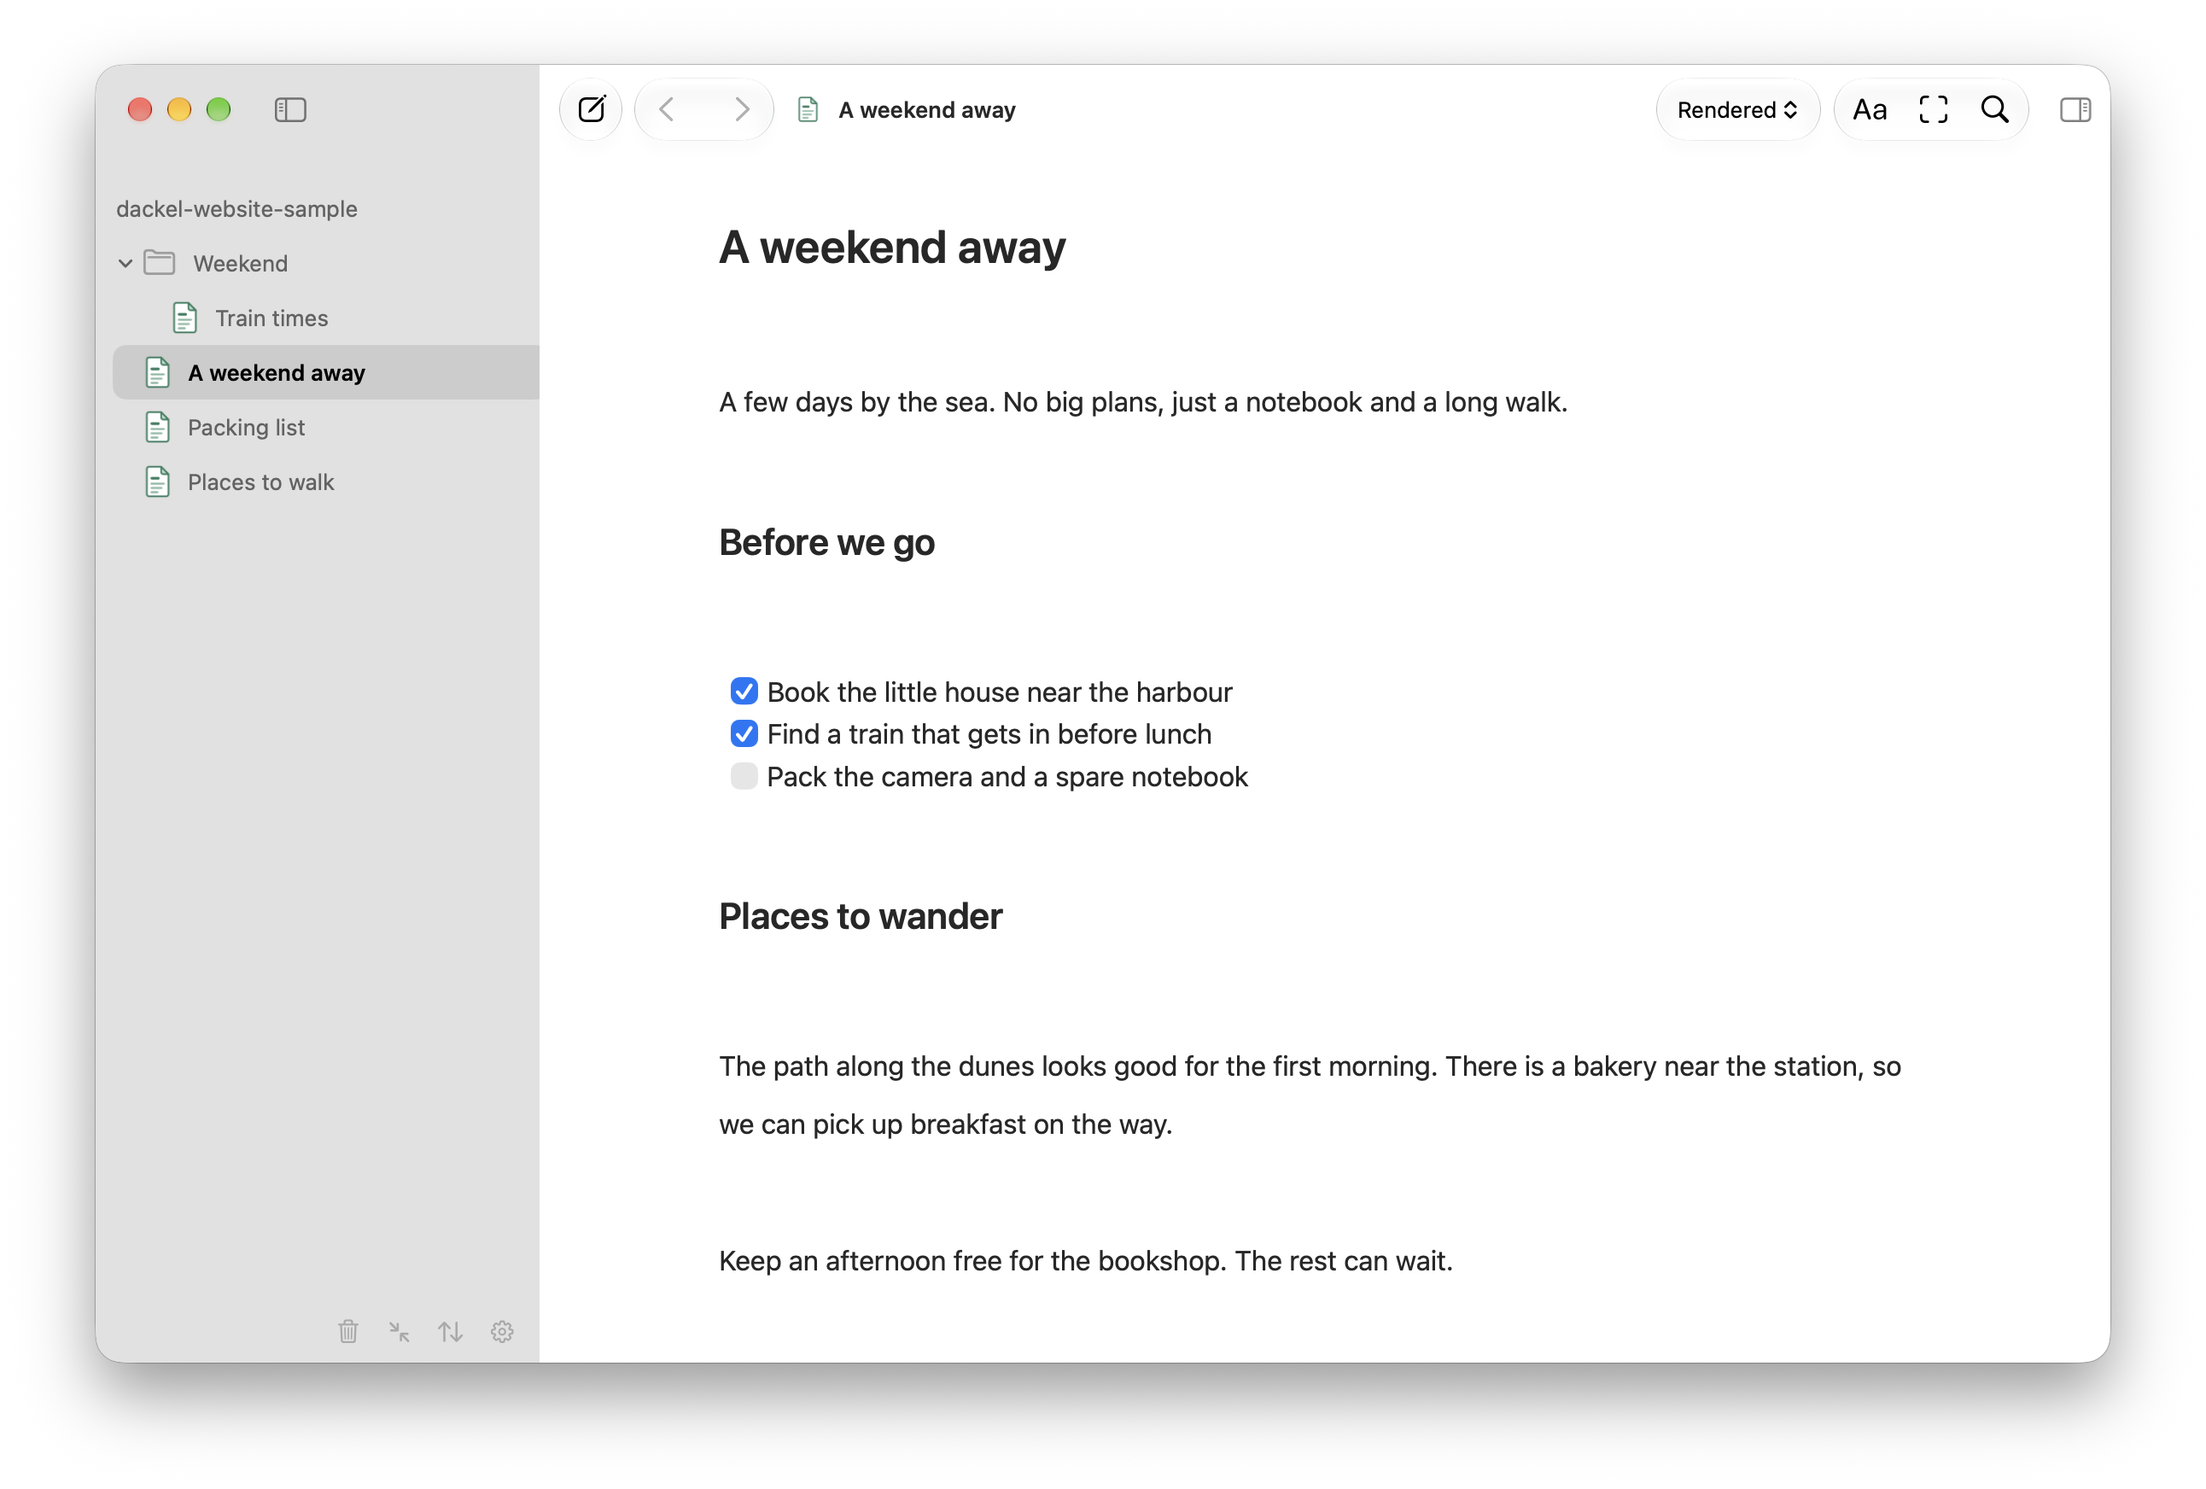
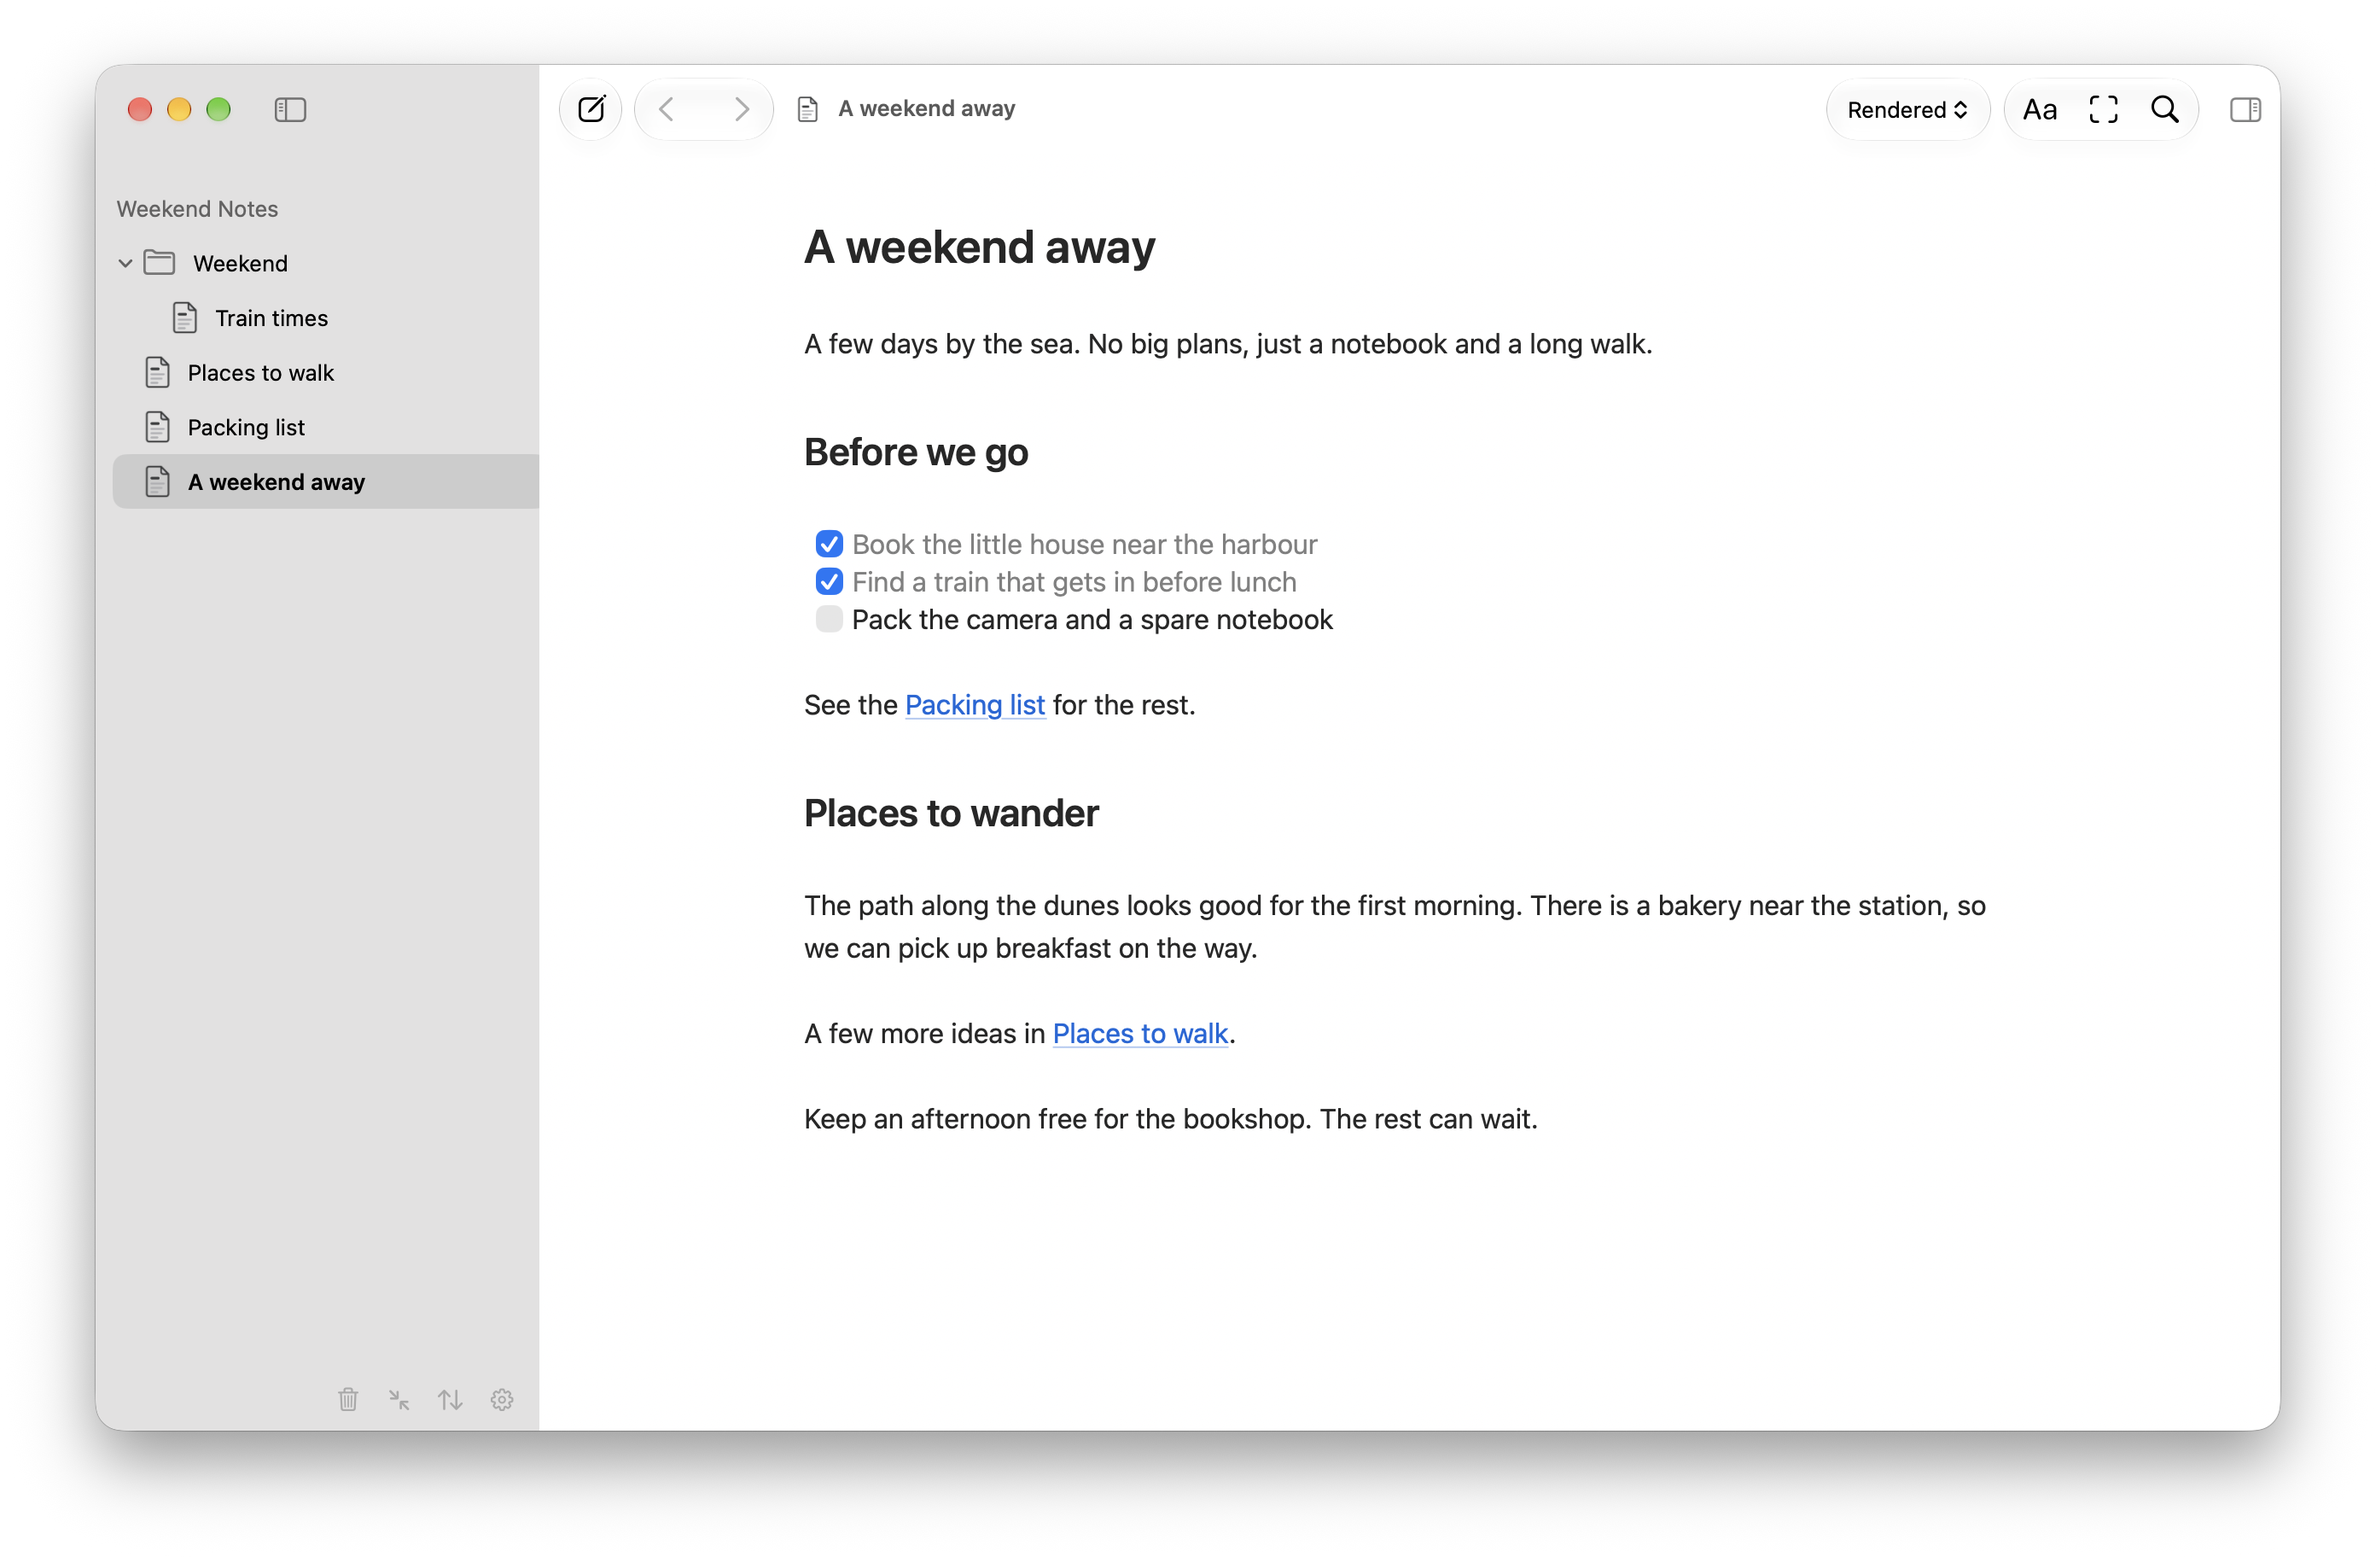
Refresh homepage with app features and updated screenshot

diff --git a/homepage.css b/homepage.css
@@ -1,0 +1,67 @@
+:root {
+  color-scheme: light;
+  font-family: "Avenir Next", Avenir, "Segoe UI", sans-serif;
+  color: #30312c;
+  background: #f8f6ed;
+  -webkit-font-smoothing: antialiased;
+}
+* { box-sizing: border-box; }
+body { margin: 0; }
+a { color: inherit; text-underline-offset: 4px; }
+a:hover { color: #8c4225; }
+a:focus-visible, button:focus-visible { outline: 2px solid #8c4225; outline-offset: 5px; }
+::selection { background: #ecd8a6; }
+.page { width: min(100% - 96px, 1000px); margin: 0 auto; }
+.site-header { display: flex; justify-content: space-between; align-items: center; gap: 24px; padding-top: 38px; }
+.wordmark { font-size: 25px; font-weight: 650; letter-spacing: -1px; text-decoration: none; }
+.release { display: flex; align-items: center; gap: 8px; font-size: 12px; color: #68695e; }
+.release::before { content: ""; width: 6px; height: 6px; flex: none; background: #9c7751; border-radius: 50%; }
+.intro { position: relative; display: flex; align-items: flex-end; justify-content: space-between; gap: 24px; padding-top: 76px; margin-bottom: 37px; }
+h1 { margin: 0; font-size: clamp(44px, 6.3vw, 76px); line-height: 1.06; letter-spacing: -3.9px; font-weight: 600; }
+h1 span { display: block; color: #777969; }
+.intro-caption { max-width: 470px; margin: 25px 0 0; font-size: 18px; line-height: 1.65; color: #5c5e52; }
+.app-screenshot { margin: 0; }
+.app-screenshot img { display: block; width: 100%; height: auto; border-radius: 12px; }
+.details { display: grid; grid-template-columns: repeat(3, 1fr); gap: 40px; padding: 39px 0 43px; border-bottom: 1px solid #deddd2; }
+.details h2 { margin: 0 0 9px; font-size: 15px; line-height: 1.5; font-weight: 600; letter-spacing: -.15px; }
+.details p { margin: 0; font-size: 14px; line-height: 1.8; color: #68695e; }
+.details code { font-size: 12px; }
+.maker { display: flex; justify-content: space-between; align-items: flex-end; gap: 38px; padding: 38px 0 42px; }
+.maker p { max-width: 440px; margin: 0; font-size: 14px; line-height: 1.8; color: #68695e; }
+footer { display: flex; justify-content: space-between; align-items: baseline; gap: 20px; border-top: 1px solid #deddd2; padding: 22px 0 30px; font-size: 11px; color: #77796d; }
+footer p { margin: 0; }
+.origin svg { width: 12px; height: 18px; margin-right: 6px; vertical-align: baseline; }
+footer nav { display: flex; flex-wrap: wrap; gap: 22px; }
+footer a { text-decoration: none; }
+footer a:hover { text-decoration: underline; }
+[hidden] { display: none !important; }
+.mascot-button { position: relative; display: block; flex: none; width: 180px; aspect-ratio: 1499 / 1049; border: 0; padding: 0; margin: 0 8px 4px 0; background: transparent; color: inherit; border-radius: 6px; }
+.mascot-button:enabled { cursor: pointer; }
+.mascot-frame { position: absolute; right: .8%; bottom: 18%; width: 96%; height: auto; overflow: hidden; image-rendering: pixelated; }
+.mascot-bone { position: absolute; top: 7px; right: 7px; line-height: 0; }
+.mascot-walkway { position: absolute; inset: 0; width: 100%; height: 100%; pointer-events: none; image-rendering: pixelated; }
+.sr-only { position: absolute; width: 1px; height: 1px; padding: 0; margin: -1px; overflow: hidden; clip: rect(0, 0, 0, 0); white-space: nowrap; border: 0; }
+@media (max-width: 700px) {
+  .page { width: calc(100% - 40px); }
+  .site-header { padding-top: 26px; }
+  .intro { padding-top: 54px; margin-bottom: 28px; gap: 12px; }
+  h1 { font-size: 48px; letter-spacing: -2.4px; }
+  .intro-caption { font-size: 16px; margin-top: 21px; }
+  .mascot-button { width: 104px; margin-right: 0; }
+  .details { gap: 22px; padding: 29px 0 32px; }
+  .details h2 { font-size: 14px; }
+  .details p { font-size: 13px; }
+  .maker { padding: 29px 0 32px; }
+}
+@media (max-width: 520px) {
+  .intro { display: block; }
+  h1 { font-size: clamp(38px, 10.2vw, 52px); letter-spacing: -2px; }
+  .mascot-button { width: 86px; margin: 12px 0 0 auto; }
+  .app-screenshot img { border-radius: 6px; }
+  .details { grid-template-columns: 1fr; gap: 23px; }
+  .details h2 { margin-bottom: 4px; }
+  .details p { max-width: 390px; font-size: 14px; }
+  .maker { display: block; }
+  footer { flex-wrap: wrap; gap: 15px; }
+  footer nav { gap: 19px; }
+}

diff --git a/index.html b/index.html
@@ -3,21 +3,27 @@
 <head>
   <meta charset="utf-8">
   <meta name="viewport" content="width=device-width, initial-scale=1">
-  <meta name="description" content="Dackel is a native Markdown editor for macOS.">
+  <meta name="description" content="A native Markdown editor for your everyday writing. Plain Markdown files, linked notes, and Quick Capture. Currently in development.">
   <meta name="theme-color" content="#f8f6ed">
   <title>Dackel — Markdown for Mac</title>
   <link rel="icon" href="favicon.ico?v=8d63aca" type="image/x-icon" sizes="16x16 32x32 48x48 64x64">
   <link rel="icon" href="assets/dackel-favicon-32-820987a9.png" type="image/png" sizes="32x32">
   <link rel="icon" href="assets/dackel-favicon-64-45338dbb.png" type="image/png" sizes="64x64">
   <link rel="apple-touch-icon" href="assets/dackel-apple-touch-icon-c06fd930.png" sizes="180x180">
-  <link rel="stylesheet" href="styles.css?v=7fabd08">
+  <link rel="stylesheet" href="homepage.css?v=e0e538f8">
   <script src="mascot.js" defer></script>
 </head>
 <body>
   <main class="page">
-    <header class="intro">
+    <header class="site-header">
+      <a class="wordmark" href="./">Dackel</a>
+      <span class="release">In development</span>
+    </header>
+
+    <section class="intro" aria-labelledby="headline">
       <div>
-        <h1>Dackel</h1>
+        <h1 id="headline">Markdown.<span>Made for Mac.</span></h1>
+        <p class="intro-caption">A native Markdown editor for your everyday writing.</p>
       </div>
       <button class="mascot-button" type="button" aria-label="Take Dackel for a walk" title="Take Dackel for a walk" disabled>
         <svg class="mascot-frame" viewBox="0 0 424 239" aria-hidden="true">
@@ -29,16 +35,35 @@
       </button>
       <canvas class="mascot-walkway" hidden aria-hidden="true"></canvas>
       <span class="sr-only mascot-status" role="status"></span>
-    </header>
-
-    <p class="intro-caption">For people who love taking notes and love the Mac. Dackel makes your Markdown files feel at home.</p>
+    </section>
 
     <figure class="app-screenshot">
-      <img src="assets/dackel-app.png" alt="Dackel running on macOS, with a folder of Markdown notes in the sidebar and the note A weekend away open in Rendered mode." width="2584" height="1744" fetchpriority="high">
+      <img src="assets/dackel-app.png?v=bc9d6f74" alt="Dackel on macOS: the Weekend Notes vault with a weekend plan, checklist, and links to other notes." width="2784" height="1824" fetchpriority="high">
     </figure>
 
+    <section class="details" aria-label="About the app">
+      <div>
+        <h2>Plain Markdown files</h2>
+        <p>Your notes live in your own folders as <code>.md</code> files. Open them in Dackel, Finder, or another editor.</p>
+      </div>
+      <div>
+        <h2>Linked notes</h2>
+        <p>Connect your notes with links and see which notes link back. Follow an idea from one note to the next.</p>
+      </div>
+      <div>
+        <h2>Quick Capture</h2>
+        <p>Capture a thought from any app with a keyboard shortcut. Save it to your inbox or today’s note.</p>
+      </div>
+    </section>
+
+    <section class="maker" aria-label="About Dackel">
+      <div>
+        <p>Dackel is an independent app, still taking shape.</p>
+      </div>
+    </section>
+
     <footer>
-      <p class="release-status">In development</p>
+      <p class="origin"><svg viewBox="0 0 24 32" fill="currentColor" aria-hidden="true" focusable="false"><!-- Same silhouette as CologneCathedralView in the macOS app. --><polygon points="1,32 1,24 2,24 2,17 3,17 3.5,12 4,13 6,1 8,13 8.5,12 9,17 10,17 10,22 12,18 14,22 14,17 15,17 15.5,12 16,13 18,1 20,13 20.5,12 21,17 22,17 22,24 23,24 23,32"/></svg>Made in Cologne</p>
       <nav aria-label="Support and legal information">
         <a href="support.html">Support</a>
         <a href="privacy.html">Privacy</a>
